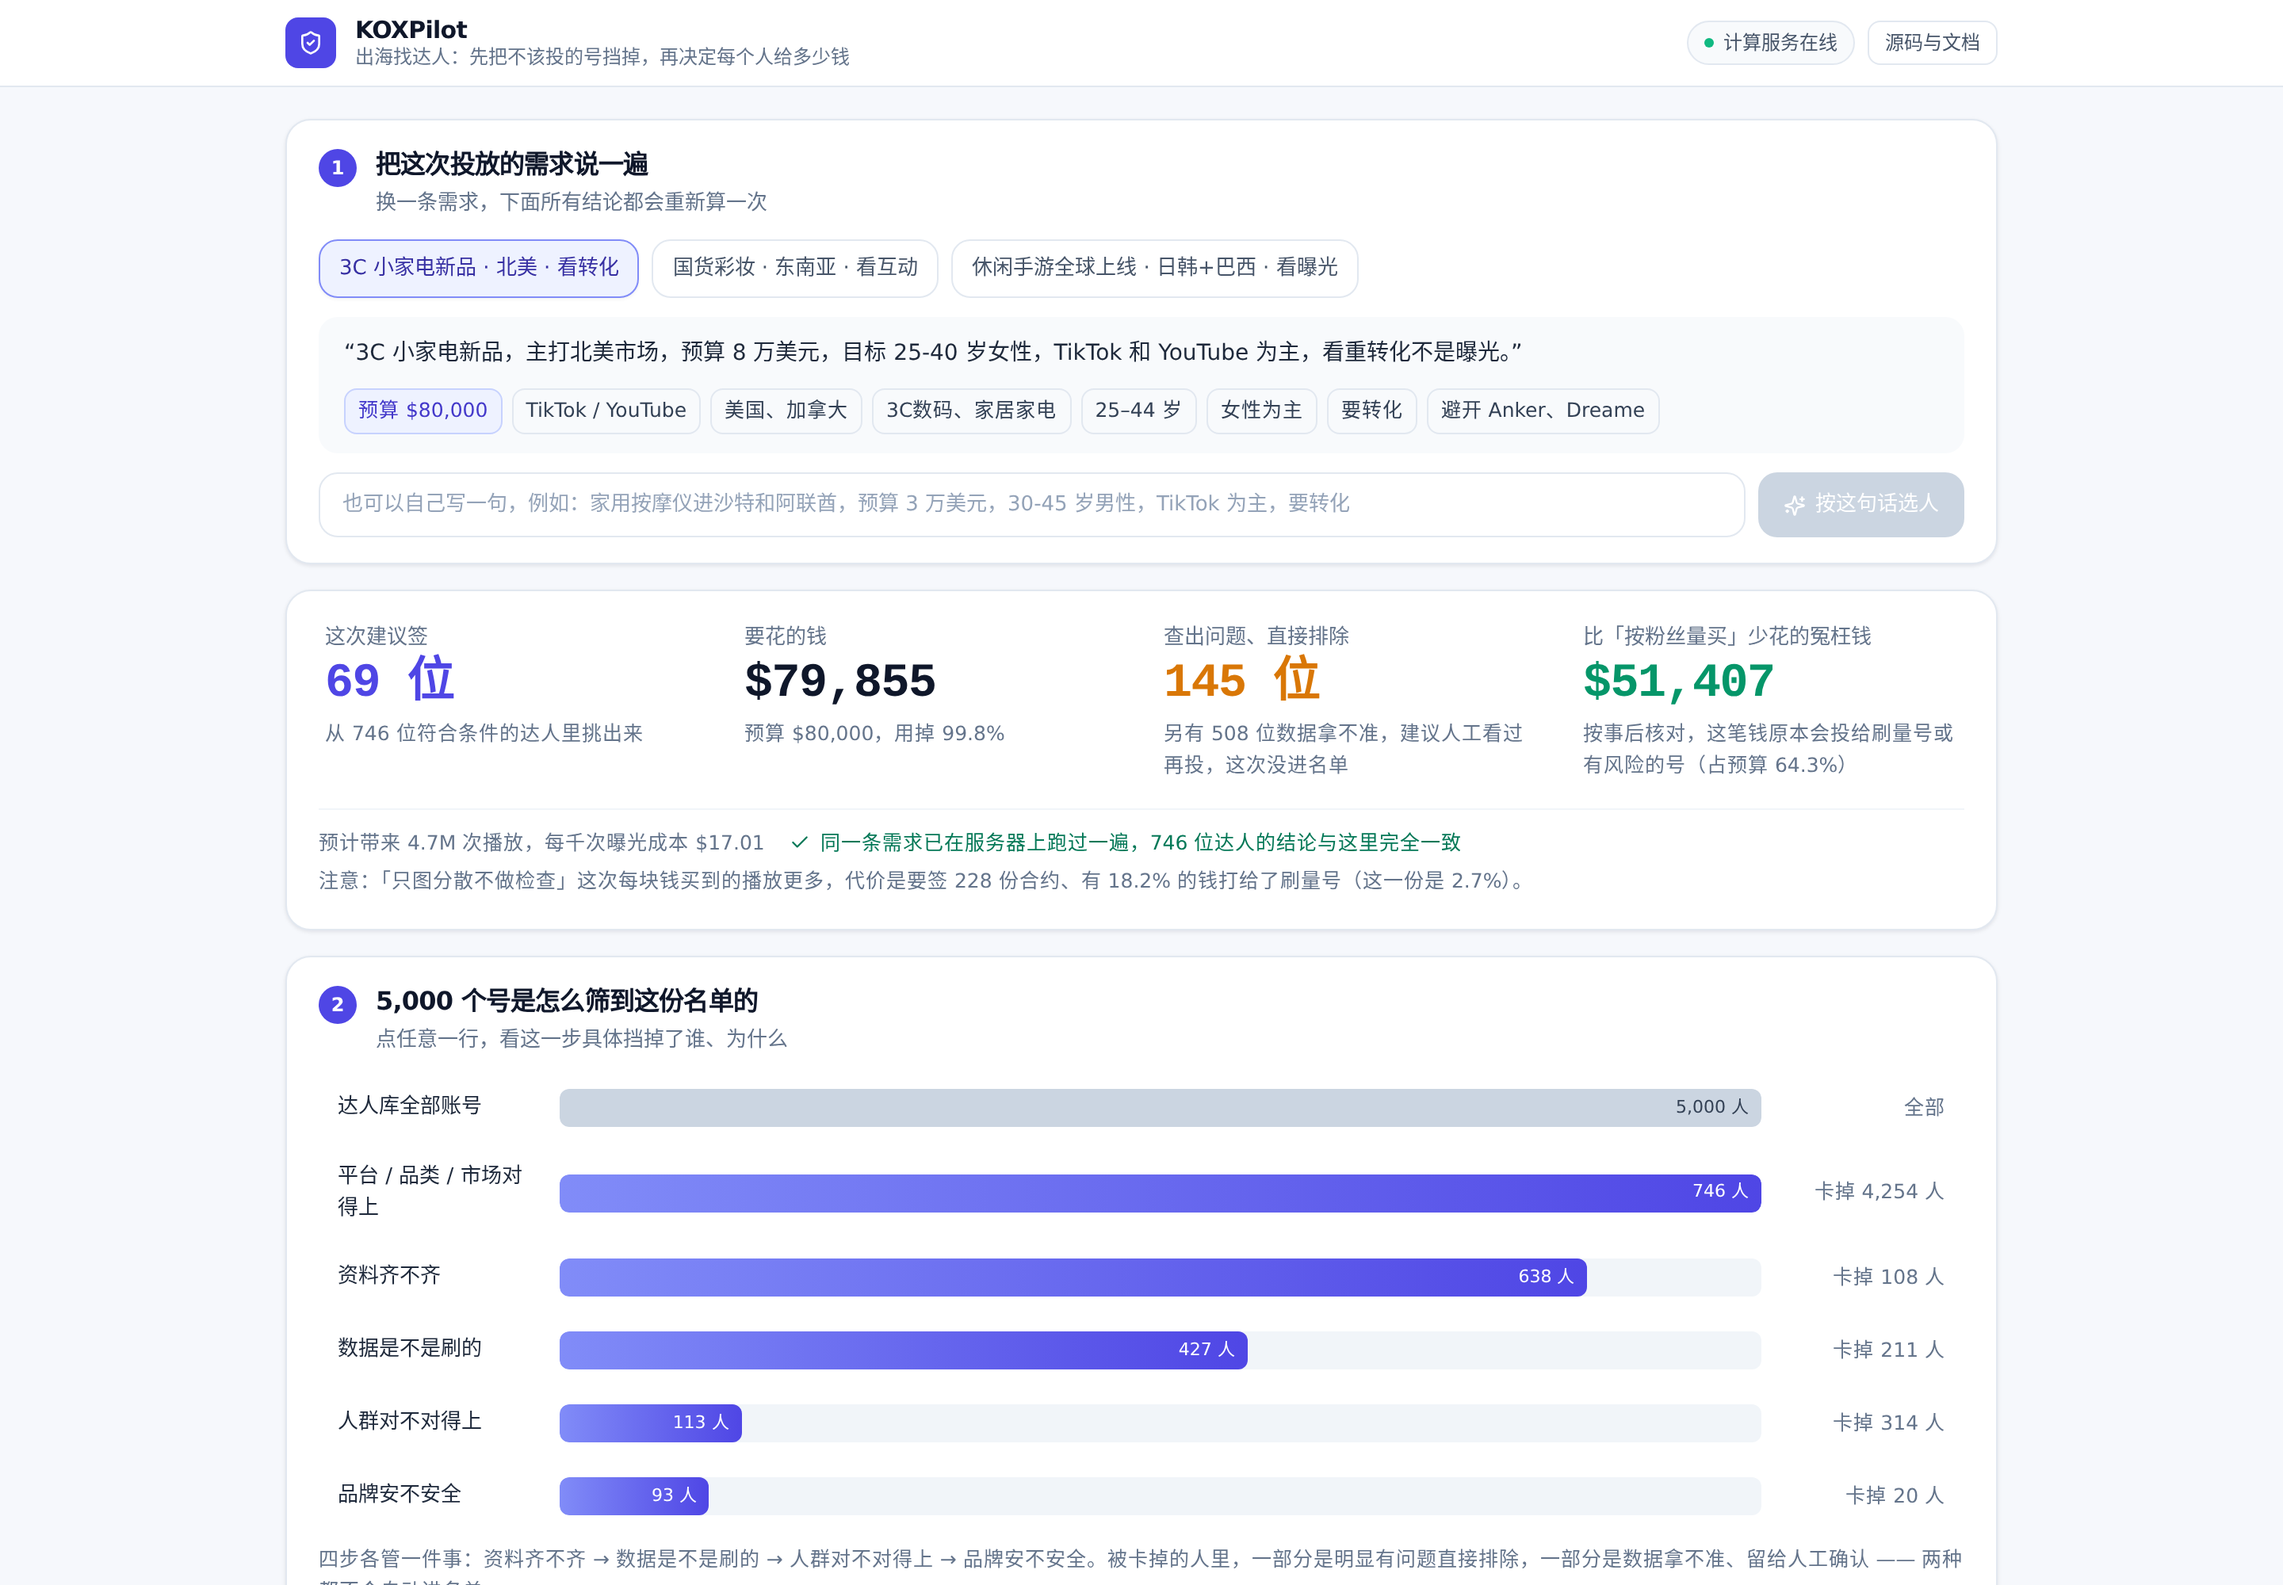
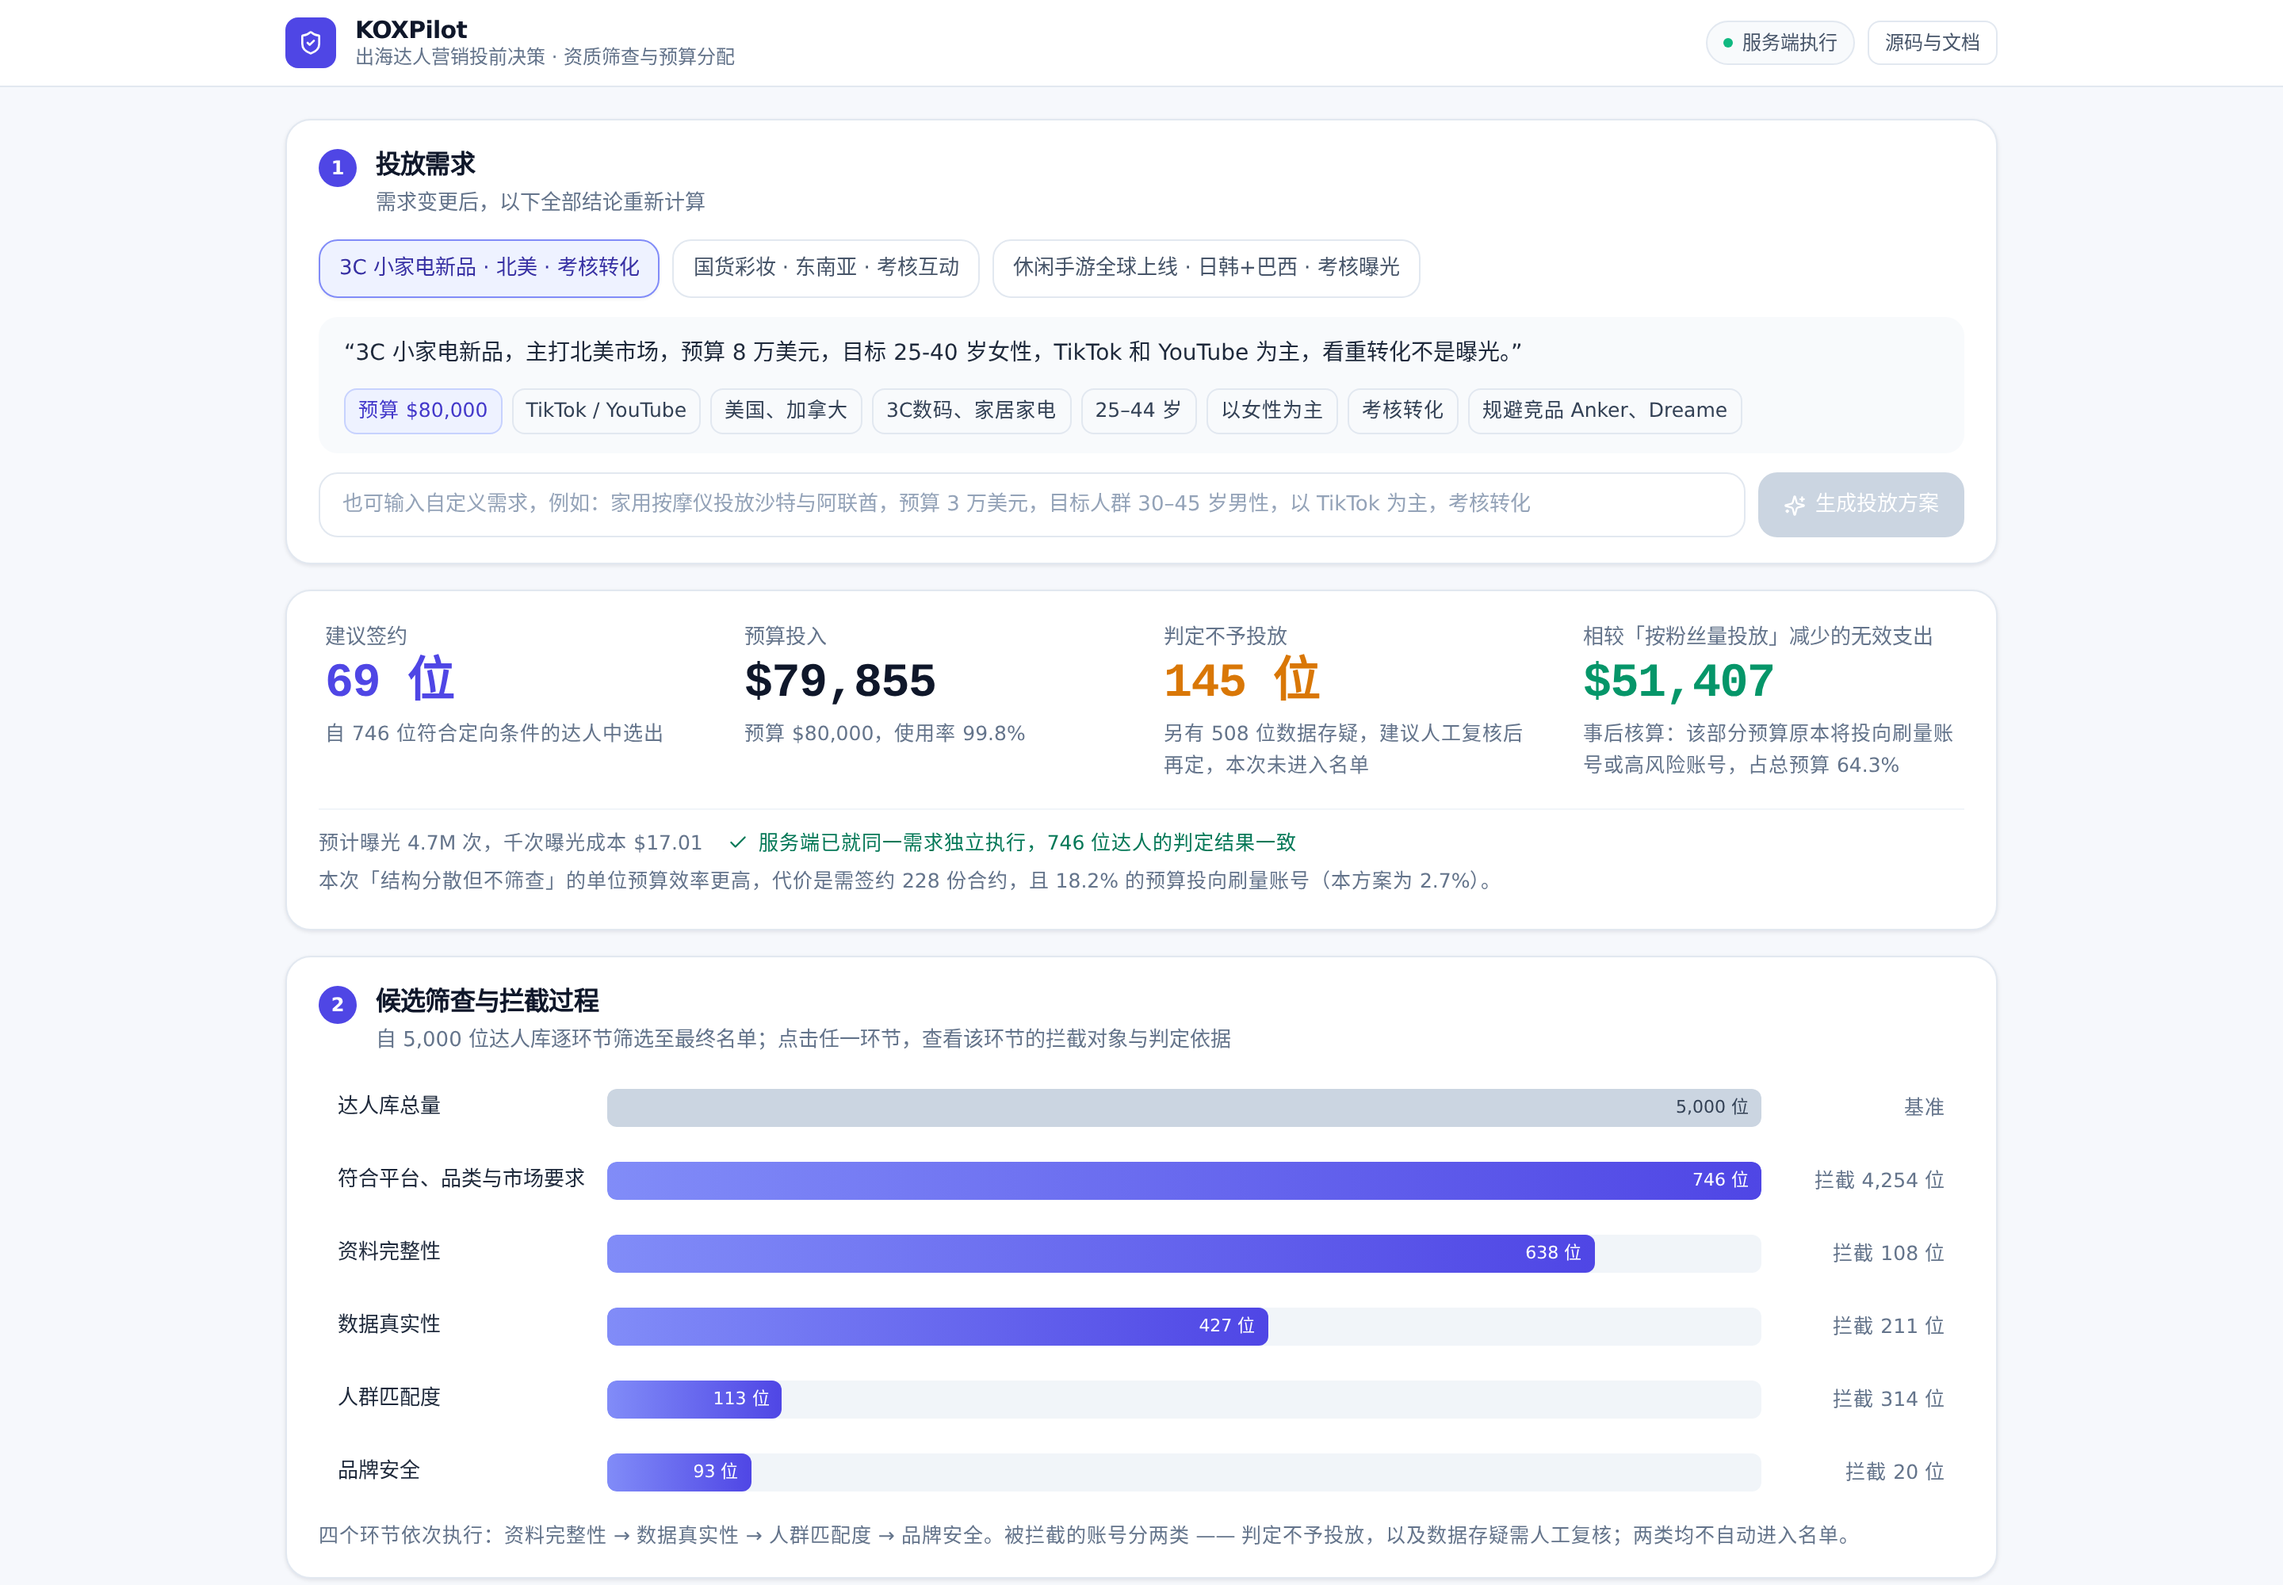
brief 名称在界面上换成书面说法，数据与产物保持原样

diff --git a/web/src/v4/plain.ts b/web/src/v4/plain.ts
@@ -216,3 +216,19 @@ export function reasonPlain(reason: {
   if (typeof a === 'number') return `${what} ${fmtNum(a)}`;
   return what;
 }
+
+/**
+ * 数据集里的 brief 名称是造数据时随手写的口语标签（"看转化"），
+ * 产物字节一致性校验依赖原值，所以不改数据，只在展示时换成书面说法。
+ */
+const BRIEF_NAME_FIX: Array<[RegExp, string]> = [
+  [/看转化/g, '考核转化'],
+  [/看互动/g, '考核互动'],
+  [/看曝光/g, '考核曝光'],
+];
+
+export function briefLabel(name: string): string {
+  let out = name;
+  for (const [re, to] of BRIEF_NAME_FIX) out = out.replace(re, to);
+  return out;
+}

diff --git a/web/src/v4/Page.tsx b/web/src/v4/Page.tsx
@@ -18,6 +18,7 @@ import { parseBrief } from '../engine/briefParse';
 import type { CampaignSpec, GateResult, Kox } from '../engine/types';
 import {
   GATE_ASK,
+  briefLabel,
   GATE_NAME,
   KPI_ZH,
   TIER_RANGE,
@@ -280,7 +281,7 @@ export default function Page(): React.ReactElement {
                     : 'border-slate-200 bg-white text-slate-600 hover:border-brand-300'
                 }`}
               >
-                {b.name}
+                {briefLabel(b.name)}
               </button>
             ))}
           </div>

diff --git a/src/koxpilot/datagen/briefs.py b/src/koxpilot/datagen/briefs.py
@@ -15,14 +15,14 @@ __all__ = ["BRIEFS", "build_briefs"]
 BRIEFS: list[dict[str, Any]] = [
     {
         "brief_id": "BRIEF-001",
-        "name": "3C 小家电新品 · 北美 · 考核转化",
+        "name": "3C 小家电新品 · 北美 · 看转化",
         "raw_text": (
             "3C 小家电新品，主打北美市场，预算 8 万美元，目标 25-40 岁女性，"
             "TikTok 和 YouTube 为主，看重转化不是曝光。"
         ),
         "spec": {
             "campaign_id": "BRIEF-001",
-            "name": "3C 小家电新品 · 北美 · 考核转化",
+            "name": "3C 小家电新品 · 北美 · 看转化",
             "target_categories": ["3c_digital", "home_appliance"],
             "target_markets": ["US", "CA"],
             "target_languages": ["en"],
@@ -37,7 +37,7 @@ BRIEFS: list[dict[str, Any]] = [
     },
     {
         "brief_id": "BRIEF-002",
-        "name": "国货彩妆 · 东南亚 · 考核互动",
+        "name": "国货彩妆 · 东南亚 · 看互动",
         "raw_text": (
             "国货彩妆品牌进东南亚，主打印尼、马来西亚、越南三个市场，预算 4.5 万美元，"
             "目标 18-30 岁女性，Instagram 和 TikTok，希望先把口碑和互动做起来，"
@@ -45,7 +45,7 @@ BRIEFS: list[dict[str, Any]] = [
         ),
         "spec": {
             "campaign_id": "BRIEF-002",
-            "name": "国货彩妆 · 东南亚 · 考核互动",
+            "name": "国货彩妆 · 东南亚 · 看互动",
             "target_categories": ["beauty_care", "fashion"],
             "target_markets": ["ID", "MY", "VN"],
             "target_languages": ["id", "ms", "vi", "en"],
@@ -60,7 +60,7 @@ BRIEFS: list[dict[str, Any]] = [
     },
     {
         "brief_id": "BRIEF-003",
-        "name": "休闲手游全球上线 · 日韩+巴西 · 考核曝光",
+        "name": "休闲手游全球上线 · 日韩+巴西 · 看曝光",
         "raw_text": (
             "一款休闲手游全球上线，重点是日本、韩国和巴西，预算 12 万美元，"
             "主要人群 18-34 岁男性为主，YouTube 和 TikTok，这一轮先要量，先把安装曝光打出来，"
@@ -68,7 +68,7 @@ BRIEFS: list[dict[str, Any]] = [
         ),
         "spec": {
             "campaign_id": "BRIEF-003",
-            "name": "休闲手游全球上线 · 日韩+巴西 · 考核曝光",
+            "name": "休闲手游全球上线 · 日韩+巴西 · 看曝光",
             "target_categories": ["gaming_app", "3c_digital"],
             "target_markets": ["JP", "KR", "BR"],
             "target_languages": ["ja", "ko", "pt", "en"],
